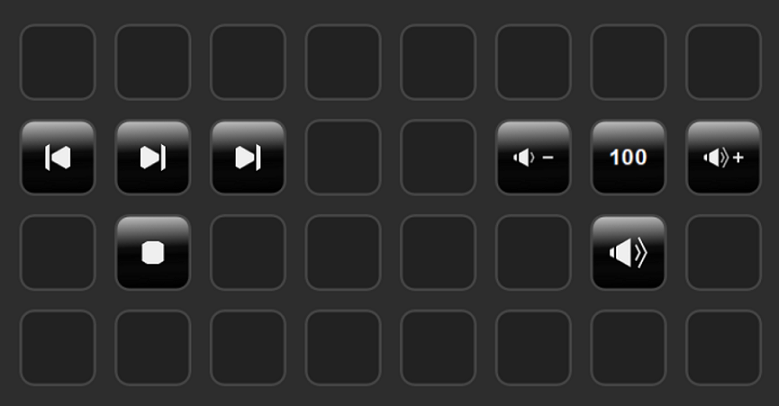
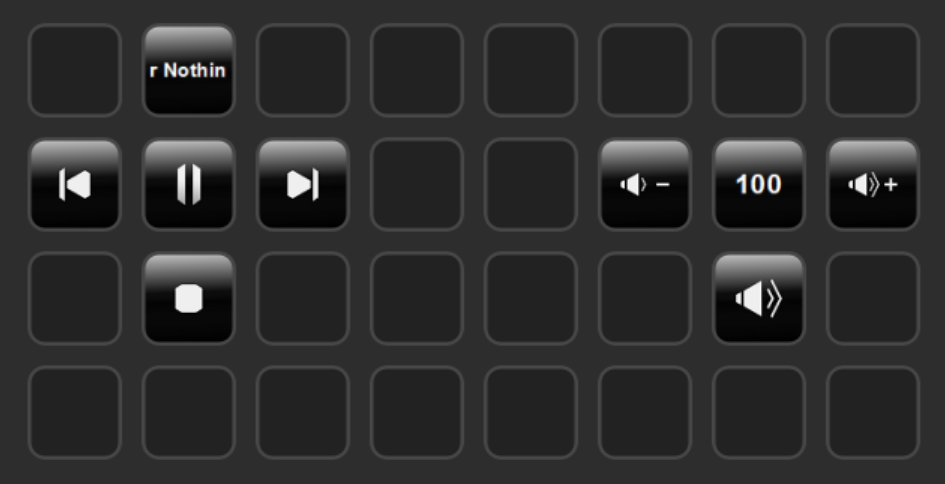
docs: update screenshot

diff --git a/README.md b/README.md
@@ -18,7 +18,7 @@ Installed Foobar2000 with the [beefweb](https://www.foobar2000.org/components/vi
 - Control volume (up / down)
 - Skip forward / backward
 - Stop playback
-- Display the current playback (artist & album) on a key
+- Display the current playback (artist & album) as ticker on a key
 
 The status of the keys gets also updated on external controls (like the foobar2000 window).
 
